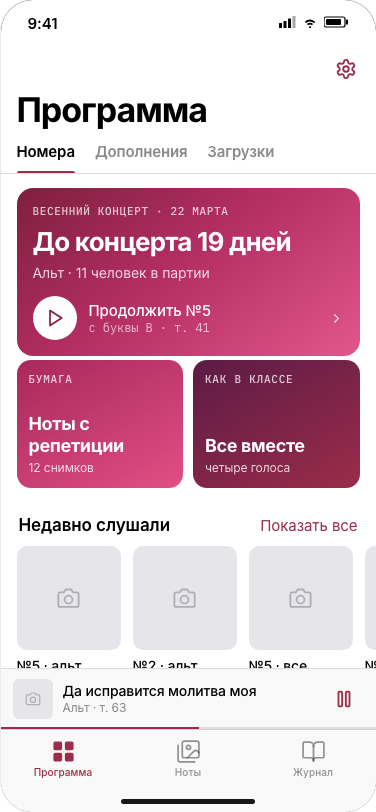
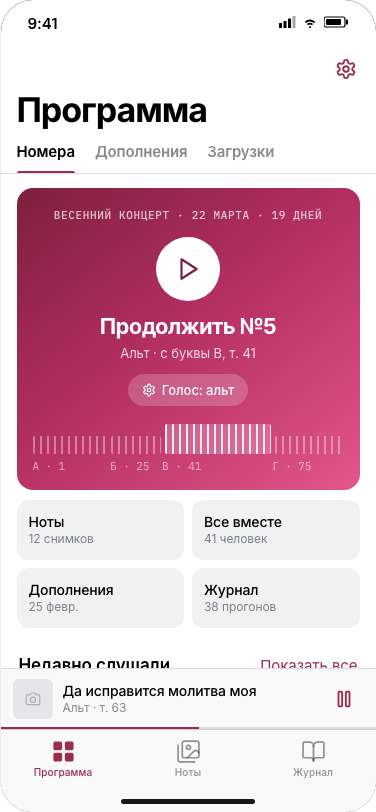
strochka: take the hero composition the reference actually uses
Re-read the eight screenshots properly. Six patterns had been missed, all
structural: the hero is a centred composition (big round button in the
middle, title under it, caption, a settings pill), a 2×2 grid of small tiles
sits directly under it, the hero's background carries a waveform, an accent
action row stands above the track list ("Перемешать все"), and each track row
puts a state glyph before its duration.

Four are taken. The waveform is taken as a device but filled with data: four
segments sized by the number of bars in each rehearsal letter, ticks inside
them, the current letter brighter. A waveform's shape means nothing here; bar
counts do, and the no-invented-visuals rule stays intact.

Two are refused on purpose, with the reason recorded in docs/04: a trailing
"…" on every row would be a dead control in a static prototype (a chevron at
least leads somewhere), and the two-column horizontally-paged list reads as a
layout defect on a still frame rather than as a pattern.

First render caught what code review would not: the ruler ticks had no height
and drew nothing, and the letter marks did not line up until the segments
became proportional.

Verified: test 29/29, lint clean, audit clean.

Changed region(s): [[0.0293, 0.2463, 0.9654, 0.8313], [0.9654, 0.6466, 1.0, 0.8313], [0.7899, 0.2463, 0.8484, 0.2771]]

diff --git a/platform/concepts/strochka/screens/program.html b/platform/concepts/strochka/screens/program.html
@@ -14,26 +14,44 @@
 
   <div class="body-scroll st-pad">
     <div class="st-hero-card">
-      <div class="st-hero-kicker">Весенний концерт · 22 марта</div>
-      <div class="st-hero-big">До концерта 19 дней</div>
-      <p class="st-hero-note">Альт · 11 человек в партии</p>
-      <div class="st-hero-go tap" data-go="piece" aria-label="Продолжить номер 5 с буквы В">
-        <div class="st-hero-play"><svg class="ico-svg"><use href="#i-play"/></svg></div>
-        <div class="st-hero-go-txt">Продолжить №5<span>с буквы В · т. 41</span></div>
-        <svg class="ico-svg" style="width:15px;height:15px;opacity:.7" aria-hidden="true"><use href="#i-chevron-right"/></svg>
+      <div class="st-hero-kicker">Весенний концерт · 22 марта · 19 дней</div>
+      <div class="st-hero-play tap" data-go="piece" aria-label="Продолжить номер 5 с буквы В"><svg class="ico-svg"><use href="#i-play"/></svg></div>
+      <div class="st-hero-big">Продолжить №5</div>
+      <p class="st-hero-note">Альт · с буквы В, т. 41</p>
+      <div class="st-hero-pill tap" data-go="settings" aria-label="Сменить голос">
+        <svg class="ico-svg"><use href="#i-settings"/></svg>
+        Голос: альт
       </div>
+      <div class="st-hero-ruler" aria-label="96 тактов по репетиционным буквам, идёт буква В">
+        <i style="flex:24"></i><i style="flex:16"></i><i class="is-on" style="flex:34"></i><i style="flex:22"></i>
+      </div>
+      <div class="st-hero-marks"><span style="flex:24">А · 1</span><span style="flex:16">Б · 25</span><span style="flex:34">В · 41</span><span style="flex:22">Г · 75</span></div>
     </div>
 
-    <div class="st-tiles mt16">
-      <div class="st-card g1 tap" data-go="notes" aria-label="Ноты с репетиции">
-        <div class="st-card-kicker">Бумага</div>
-        <div class="st-card-title">Ноты с репетиции</div>
-        <div class="st-card-sub">12 снимков</div>
+    <div class="st-mini-grid">
+      <div class="st-mini tap" data-go="notes" aria-label="Ноты с репетиции">
+        <div class="st-mini-text">
+          <div class="st-mini-title">Ноты</div>
+          <div class="st-mini-sub">12 снимков</div>
+        </div>
       </div>
-      <div class="st-card g2 tap" data-go="player" aria-label="Все голоса вместе">
-        <div class="st-card-kicker">Как в классе</div>
-        <div class="st-card-title">Все вместе</div>
-        <div class="st-card-sub">четыре голоса</div>
+      <div class="st-mini tap" data-go="player" aria-label="Все голоса вместе">
+        <div class="st-mini-text">
+          <div class="st-mini-title">Все вместе</div>
+          <div class="st-mini-sub">41 человек</div>
+        </div>
+      </div>
+      <div class="st-mini tap" data-go="releases" aria-label="Дополнения к программе">
+        <div class="st-mini-text">
+          <div class="st-mini-title">Дополнения</div>
+          <div class="st-mini-sub">25 февр.</div>
+        </div>
+      </div>
+      <div class="st-mini tap" data-go="journal" aria-label="Журнал прогонов">
+        <div class="st-mini-text">
+          <div class="st-mini-title">Журнал</div>
+          <div class="st-mini-sub">38 прогонов</div>
+        </div>
       </div>
     </div>
 
@@ -71,6 +89,11 @@
         <div class="t-headline">Номера концерта</div>
         <span class="sec-more is-plain">10</span>
       </div>
+      <div class="st-act tap" data-go="player" aria-label="Слушать программу подряд">
+        <svg class="ico-svg"><use href="#i-play"/></svg>
+        <span class="grow">Слушать подряд, альт</span>
+        <span class="st-act-n">36:42</span>
+      </div>
       <div class="st-list">
         <div class="row has-lead tap" data-go="piece" aria-label="Номер 1, Бортнянский, Скажи ми Господи">
           <div class="st-idx">1</div>
@@ -78,7 +101,7 @@
             <div class="t-headline">Скажи ми, Господи</div>
             <div class="st-meta">Бортнянский · концерт №32</div>
           </div>
-          <span class="st-dur">5:40</span>
+          <span class="st-dur is-ready"><svg class="ico-svg"><use href="#i-check"/></svg>5:40</span>
         </div>
         <div class="row has-lead tap" data-go="piece" aria-label="Номер 2, Кастальский, Хвалите имя Господне">
           <div class="st-idx">2</div>
@@ -95,7 +118,7 @@
             <div class="t-headline">Ныне отпущаеши</div>
             <div class="st-meta">Гречанинов · купюра т. 33–40</div>
           </div>
-          <span class="st-dur">4:05</span>
+          <span class="st-dur is-ready"><svg class="ico-svg"><use href="#i-check"/></svg>4:05</span>
         </div>
         <div class="row has-lead tap" data-go="piece" aria-label="Номер 4, Рахманинов, Богородице Дево радуйся">
           <div class="st-idx">4</div>
@@ -112,7 +135,7 @@
             <div class="st-meta">Чесноков · 4 страницы</div>
             <div class="st-flags"><span class="st-flag is-soft">шатко с В</span></div>
           </div>
-          <span class="st-dur">4:12</span>
+          <span class="st-dur is-ready"><svg class="ico-svg"><use href="#i-check"/></svg>4:12</span>
         </div>
         <div class="row has-lead tap" data-go="piece" aria-label="Номер 6, Танеев, Сосна">
           <div class="st-idx">6</div>
@@ -120,7 +143,7 @@
             <div class="t-headline">Сосна</div>
             <div class="st-meta">Танеев · страниц нет</div>
           </div>
-          <span class="st-dur">3:28</span>
+          <span class="st-dur is-ready"><svg class="ico-svg"><use href="#i-check"/></svg>3:28</span>
         </div>
         <div class="row has-lead tap" data-go="piece" aria-label="Номер 7, Чайковский, Легенда">
           <div class="st-idx">7</div>
@@ -136,7 +159,7 @@
             <div class="t-headline">Ах ты, степь широкая</div>
             <div class="st-meta">обработка</div>
           </div>
-          <span class="st-dur">2:48</span>
+          <span class="st-dur is-ready"><svg class="ico-svg"><use href="#i-check"/></svg>2:48</span>
         </div>
         <div class="row has-lead tap" data-go="piece" aria-label="Номер 9, Вечерний звон">
           <div class="st-idx">9</div>
@@ -153,7 +176,7 @@
             <div class="t-headline">Многолетие</div>
             <div class="st-meta">обработка · наизусть</div>
           </div>
-          <span class="st-dur">1:16</span>
+          <span class="st-dur is-ready"><svg class="ico-svg"><use href="#i-check"/></svg>1:16</span>
         </div>
       </div>
     </div>

diff --git a/platform/concepts/strochka/styles.css b/platform/concepts/strochka/styles.css
@@ -303,38 +303,66 @@
    плиток, не пересекающийся с семантической палитрой. Пользуемся им, но
    держим все градиенты в одном семействе тона: акцент по-прежнему один. */
 .st-hero-card {
-  margin-top: 14px; border-radius: 16px; padding: 16px; color: #fff;
+  margin-top: 14px; border-radius: 16px; padding: 20px 16px 16px; color: #fff; text-align: center;
   background-image: linear-gradient(142deg, #7E1F3D 0%, #B32E63 46%, #E2568C 100%);
 }
 .st-hero-kicker {
   font: 500 11px/15px var(--mono); letter-spacing: .06em; text-transform: uppercase; color: rgba(255,255,255,.75);
 }
-.st-hero-big { margin-top: 8px; font: 700 26px/30px var(--face); letter-spacing: -.03em; }
-.st-hero-note { margin-top: 6px; font: 400 14px/19px var(--face); color: rgba(255,255,255,.82); }
-.st-hero-go {
-  display: flex; align-items: center; gap: 12px; min-height: 44px; margin-top: 14px;
-}
 .st-hero-play {
-  width: 44px; height: 44px; border-radius: 50%; flex: none;
+  width: 64px; height: 64px; border-radius: 50%; margin: 14px auto 0;
   display: flex; align-items: center; justify-content: center;
   background-color: #fff; color: #7E1F3D;
 }
-.st-hero-play .ico-svg { width: 20px; height: 20px; }
-.st-hero-go-txt { flex: 1; min-width: 0; font: 500 15px/19px var(--face); }
-.st-hero-go-txt span { display: block; font: 400 12px/16px var(--mono); color: rgba(255,255,255,.7); }
+.st-hero-play .ico-svg { width: 26px; height: 26px; }
+.st-hero-big { margin-top: 12px; font: 700 22px/27px var(--face); letter-spacing: -.03em; }
+.st-hero-note { margin-top: 4px; margin-bottom: 0; font: 400 13px/18px var(--face); color: rgba(255,255,255,.82); }
+.st-hero-pill {
+  display: inline-flex; align-items: center; gap: 6px; min-height: 32px; margin-top: 12px; padding: 0 14px;
+  border-radius: 999px; background-color: rgba(255,255,255,.2);
+  font: 500 13px/18px var(--face); color: #fff;
+}
+.st-hero-pill .ico-svg { width: 14px; height: 14px; }
 
-.st-tiles { display: grid; grid-template-columns: 1fr 1fr; gap: 10px; margin-top: 4px; }
-.st-card {
-  min-height: 128px; border-radius: 14px; padding: 12px; color: #fff;
-  display: flex; flex-direction: column;
+/* Вместо декоративной волны первоисточника — линейка тактов: те же данные,
+   что в плеере, 96 тактов по репетиционным буквам. */
+.st-hero-ruler { display: flex; align-items: flex-end; gap: 4px; height: 30px; margin-top: 18px; }
+/* Сегмент = репетиционная буква, его ширина пропорциональна числу тактов;
+   штрихи внутри — сами такты. Не волна: у волны формы нет смысла, у тактов есть. */
+.st-hero-ruler > i {
+  height: 60%; border-radius: 2px;
+  background-image: repeating-linear-gradient(90deg, rgba(255,255,255,.38) 0 2px, transparent 2px 7px);
 }
-.st-card.g1 { background-image: linear-gradient(150deg, #A8285C 0%, #E14F84 100%); }
-.st-card.g2 { background-image: linear-gradient(150deg, #5C1B45 0%, #9B2C4A 100%); }
-.st-card-kicker {
-  font: 500 11px/15px var(--mono); letter-spacing: .07em; text-transform: uppercase; color: rgba(255,255,255,.78);
+.st-hero-ruler > i.is-on {
+  height: 100%;
+  background-image: repeating-linear-gradient(90deg, rgba(255,255,255,.9) 0 2px, rgba(255,255,255,.2) 2px 7px);
 }
-.st-card-title { margin-top: auto; font: 700 18px/22px var(--face); letter-spacing: -.02em; }
-.st-card-sub { margin-top: 3px; font: 400 12px/16px var(--face); color: rgba(255,255,255,.82); }
+.st-hero-marks {
+  display: flex; margin-top: 5px;
+  font: 400 11px/15px var(--mono); color: rgba(255,255,255,.62);
+}
+.st-hero-marks > span { text-align: left; }
+
+/* —— малые плитки: сетка 2×2 сразу под героем —— */
+.st-mini-grid { display: grid; grid-template-columns: 1fr 1fr; gap: 8px; margin-top: 10px; }
+.st-mini {
+  display: flex; align-items: center; gap: 10px; min-height: 60px; padding: 10px 12px;
+  border-radius: 12px; background-color: rgba(120,120,128,.10);
+}
+.st-mini-text { flex: 1; min-width: 0; }
+.st-mini-title {
+  font: 500 14px/18px var(--face); letter-spacing: -.01em; color: #000;
+  overflow: hidden; text-overflow: ellipsis; white-space: nowrap;
+}
+.st-mini-sub { font: 400 12px/16px var(--face); color: var(--st-mute); }
+
+/* —— строка-действие акцентом над списком —— */
+.st-act {
+  display: flex; align-items: center; gap: 10px; min-height: 44px; padding: 0 2px;
+  font: 500 15px/20px var(--face); color: var(--accent-fill);
+}
+.st-act .ico-svg { width: 18px; height: 18px; flex: none; }
+.st-act-n { flex: none; font: 400 13px/18px var(--mono); color: var(--st-mute); }
 
 /* —— карточка горизонтальной ленты —— */
 .st-cc { width: 104px; }
@@ -373,5 +401,8 @@
 }
 .st-idx.is-on { color: var(--accent-fill); }
 .st-dur {
-  flex: none; font: 400 13px/20px var(--mono); color: var(--st-mute); font-variant-numeric: tabular-nums;
+  flex: none; display: inline-flex; align-items: center; gap: 4px;
+  font: 400 13px/20px var(--mono); color: var(--st-mute); font-variant-numeric: tabular-nums;
 }
+.st-dur .ico-svg { width: 13px; height: 13px; }
+.st-dur.is-ready .ico-svg { color: var(--accent-fill); }

diff --git a/platform/concepts/strochka/screens/notes.html b/platform/concepts/strochka/screens/notes.html
@@ -14,12 +14,12 @@
 
     <div class="st-hero-card">
       <div class="st-hero-kicker">Репетиции 18 и 25 февраля</div>
+      <div class="st-hero-play tap" data-ask="photo|import|notes" aria-label="Ноты с репетиции"><svg class="ico-svg"><use href="#i-images"/></svg></div>
       <div class="st-hero-big">12 снимков без номера</div>
       <p class="st-hero-note">У девяти видна шапка страницы</p>
-      <div class="st-hero-go tap" data-ask="photo|import|notes" aria-label="Ноты с репетиции">
-        <div class="st-hero-play"><svg class="ico-svg"><use href="#i-images"/></svg></div>
-        <div class="st-hero-go-txt">Ноты с репетиции<span>разложить по номерам</span></div>
-        <svg class="ico-svg" style="width:15px;height:15px;opacity:.7" aria-hidden="true"><use href="#i-chevron-right"/></svg>
+      <div class="st-hero-pill tap" data-ask="photo|import|notes" aria-label="Разложить по номерам">
+        <svg class="ico-svg"><use href="#i-layout-grid"/></svg>
+        Разложить по номерам
       </div>
     </div>
 

diff --git a/platform/concepts/strochka/docs/04-references.md b/platform/concepts/strochka/docs/04-references.md
@@ -36,12 +36,26 @@
 | **Градиентный герой с круглой кнопкой** — «Слушать VK Микс» | `program`, `notes` (`.st-hero-card`) | Присланные экраны, тёмная тема; перенесено на светлую страницу |
 | **Экран альбома** — обложка по центру, название, автор со шевроном, жанр и год, ряд из кнопки воспроизведения и двух статусов, нумерованный список | `piece` (`.st-alb`, `.st-idx`, `.st-dur`) | Присланный экран альбома «Sosa Muzik» |
 | **Мини-плеер над таб-баром** — обложка, две строки, пауза, «ещё» | все корни вкладок (`.miniplayer` ядра) | Присланные экраны обеих тем |
+| **Центрированный герой** — крупная круглая кнопка по центру, заголовок под ней, подпись, пилюля-настройка | `program`, `notes` (`.st-hero-play`, `.st-hero-pill`) | «Слушать VK Микс» во всех трёх наборах тёмной темы |
+| **Сетка 2×2 малых плиток сразу под героем** — «Мои треки 1240 всего», «Недавнее» | `program` (`.st-mini-grid`) | Промо «Новая VK Музыка» и экран Марии |
+| **Полоса внутри героя на месте волновой формы** | `program` (`.st-hero-ruler`) — четыре сегмента по числу тактов в буквах, штрихи внутри = такты | Приём взят из «Микс по треку» и VK Микса, где фон блока — waveform. Волна у нас была бы декором, а такты — данными |
+| **Строка-действие акцентом над списком** — «⤮ Перемешать все» | `program`: «Слушать подряд, альт · 36:42» (`.st-act`) | Экран альбома «Sosa Muzik», светлая тема |
+| **Иконка состояния перед длительностью** — `⏱2:40`, `↻2:06` | номера программы (`.st-dur.is-ready`) | Тот же экран альбома |
 | **Строка с длительностью справа** | номера программы, репетиционные буквы (`.st-dur`) | Присланный экран «Обзор» |
 | **Линейка тактов по репетиционным буквам** | `player` (`.st-ruler`) | **не из Base Kit и не из мобильных продуктов**: это раскладка репетиционной цифры в партитуре. Прямого референса не нашлось, потому что задачи «показать 96 тактов четырьмя буквами» в аудиоплеерах не бывает |
 
 ### Приёмы, взятые сознательно как есть
 
 Второй концепт репозитория на этом же визуальном языке отстроился от первоисточника серой страницей под белыми карточками, полным отказом от разделителей и радиусом 8. Здесь всё три пункта взяты **как в наборе** — белая страница, hairline, радиус 10. Причина простая: отстройка одним и тем же приёмом дважды перестаёт быть отстройкой, а различать два концепта должны акцент, гарнитура и предметные компоненты, а не повторный трюк с фоном.
+
+### Приёмы, от которых отказались после разбора присланных экранов
+
+| Приём | Почему не взят |
+|---|---|
+| **«…» в конце каждой строки** вместо шеврона — так устроены все списки в обеих темах | «…» открывает контекстное меню, которого в статичном прототипе нет: это был бы мёртвый контрол на каждой строке. Шеврон стоит там, где строка действительно ведёт на экран |
+| **Аватар и имя пользователя в шапке** — «Даниил ›», «Милена ›», «Мария ›» | Учётной записи в концептах нет, есть номер телефона. Поставить имя означало бы придумать человека |
+| **Список в две колонки с горизонтальным скроллом** — три строки в колонке, вторая выглядывает справа («Новинки», «Мои треки») | Приём завязан на жест, а прототип статичный: на PNG видно только обрезанную вторую колонку, и это читается как дефект вёрстки, а не как приём |
+| **Разноцветные плитки** — оранжевая «Сегодня», жёлтая «Радостно», красная «Тренировка» | Правило платформы: один акцент. Градиенты держатся в одном семействе тона |
 
 ## Что осознанно не копируем
 

diff --git a/platform/concepts/strochka/docs/05-visual-audit.md b/platform/concepts/strochka/docs/05-visual-audit.md
@@ -68,6 +68,21 @@
 | Полоса загрузки в строке доходила до правого края под значение | Невнимательность | Отступ 12 справа |
 | Подвалы-объяснения на четырёх экранах, оправдание рядом с деструктивным действием | Интерфейс объясняет себя | Сняты |
 
+## Проход 5 — повторный разбор присланных экранов
+
+Заказчик попросил посмотреть на референс ещё раз. Нашлось шесть приёмов, пропущенных в проходе 3, — все структурные, не декоративные.
+
+| Приём | Что сделано |
+|---|---|
+| Герой в референсе центрированный: крупная круглая кнопка по центру, заголовок под ней, подпись, пилюля-настройка | `program` и `notes` переписаны под эту композицию; кнопка 64, пилюля «Голос: альт» и «Разложить по номерам» |
+| Сетка 2×2 малых плиток сразу под героем | Добавлена: Ноты · Все вместе · Дополнения · Журнал. Две крупные градиентные плитки сняты — в референсе под героем стоят именно малые |
+| Внутри героя — волновая форма | Взята как приём, наполнена данными: четыре сегмента пропорционально числу тактов в буквах, штрихи внутри — такты, активная буква ярче |
+| Строка-действие акцентом над списком («Перемешать все») | «Слушать подряд, альт · 36:42» над списком номеров |
+| Иконка состояния перед длительностью в строке трека | `.st-dur.is-ready` с галочкой |
+| Список в две колонки с горизонтальным скроллом | **Не взят** — на статичном PNG обрезанная вторая колонка читается как дефект вёрстки. Причина записана в [04](04-references.md) |
+
+Починено в этом проходе: штрихи линейки не имели высоты и не отрисовывались (полоса выглядела пустой) · подписи букв не совпадали с сегментами, пока сегменты были равной ширины вместо пропорциональной · подписи букв были 10,5 px против минимума 11 · в малых плитках стоял плейсхолдер 38×38 там, где в реальности картинки нет («Журнал», «Дополнения»), — плейсхолдеры сняты.
+
 ## Машинные проверки
 
 ```

diff --git a/WORKLOG.md b/WORKLOG.md
@@ -4,6 +4,18 @@
 
 ---
 
+## 2026-08-12 — «Строчка»: второй разбор референса, центрированный герой
+
+**Что изменилось.** `program` и `notes` — герой переписан в центрированную композицию (круглая кнопка 64, заголовок, подпись, пилюля); на главной появилась сетка 2×2 малых плиток вместо двух крупных градиентных, полоса тактов внутри героя и строка-действие «Слушать подряд». В строках номеров — иконка состояния перед длительностью. `styles.css` соответственно.
+
+**Почему.** Просьба посмотреть на присланные скриншоты внимательнее. Нашлось шесть пропущенных приёмов; четыре взяты, два отклонены с причиной («…» на каждой строке — мёртвый контрол в статичном прототипе; двухколоночный список с горизонтальным скроллом на PNG читается как дефект вёрстки). Волновая форма из референса заменена линейкой тактов: у волны формы нет смысла, у тактов есть, и правило «визуал не делаем» тогда не нарушается.
+
+**Как проверено.** `test-flows.mjs strochka` — 29/29; `lint-concept.mjs strochka` — расхождений нет; `audit-visual.mjs strochka` — чисто (сначала поймал подписи букв 10,5 px). Экраны `program` и `notes` просмотрены в полный размер дважды: первый прогон показал, что штрихи линейки не отрисовывались вовсе.
+
+**Что осталось.** Приёмы из таблицы отклонённых — в `docs/04-references.md`. Столбцы минут в журнале по-прежнему единственный график в системе.
+
+---
+
 ## 2026-08-12 — «Строчка»: копирайт в данные, один язык строки и секции
 
 **Что изменилось.** Переписаны девять экранов концепта (`program`, `piece`, `player`, `notes`, `sheet`, `import`, `journal`, `releases`, `settings`), `styles.css` и правила в `docs/03`, `docs/05`. В ядро добавлен `.sec-more.is-plain` (плюс строка в сторибук): значение секции серое, акцентным остаётся только переход.
